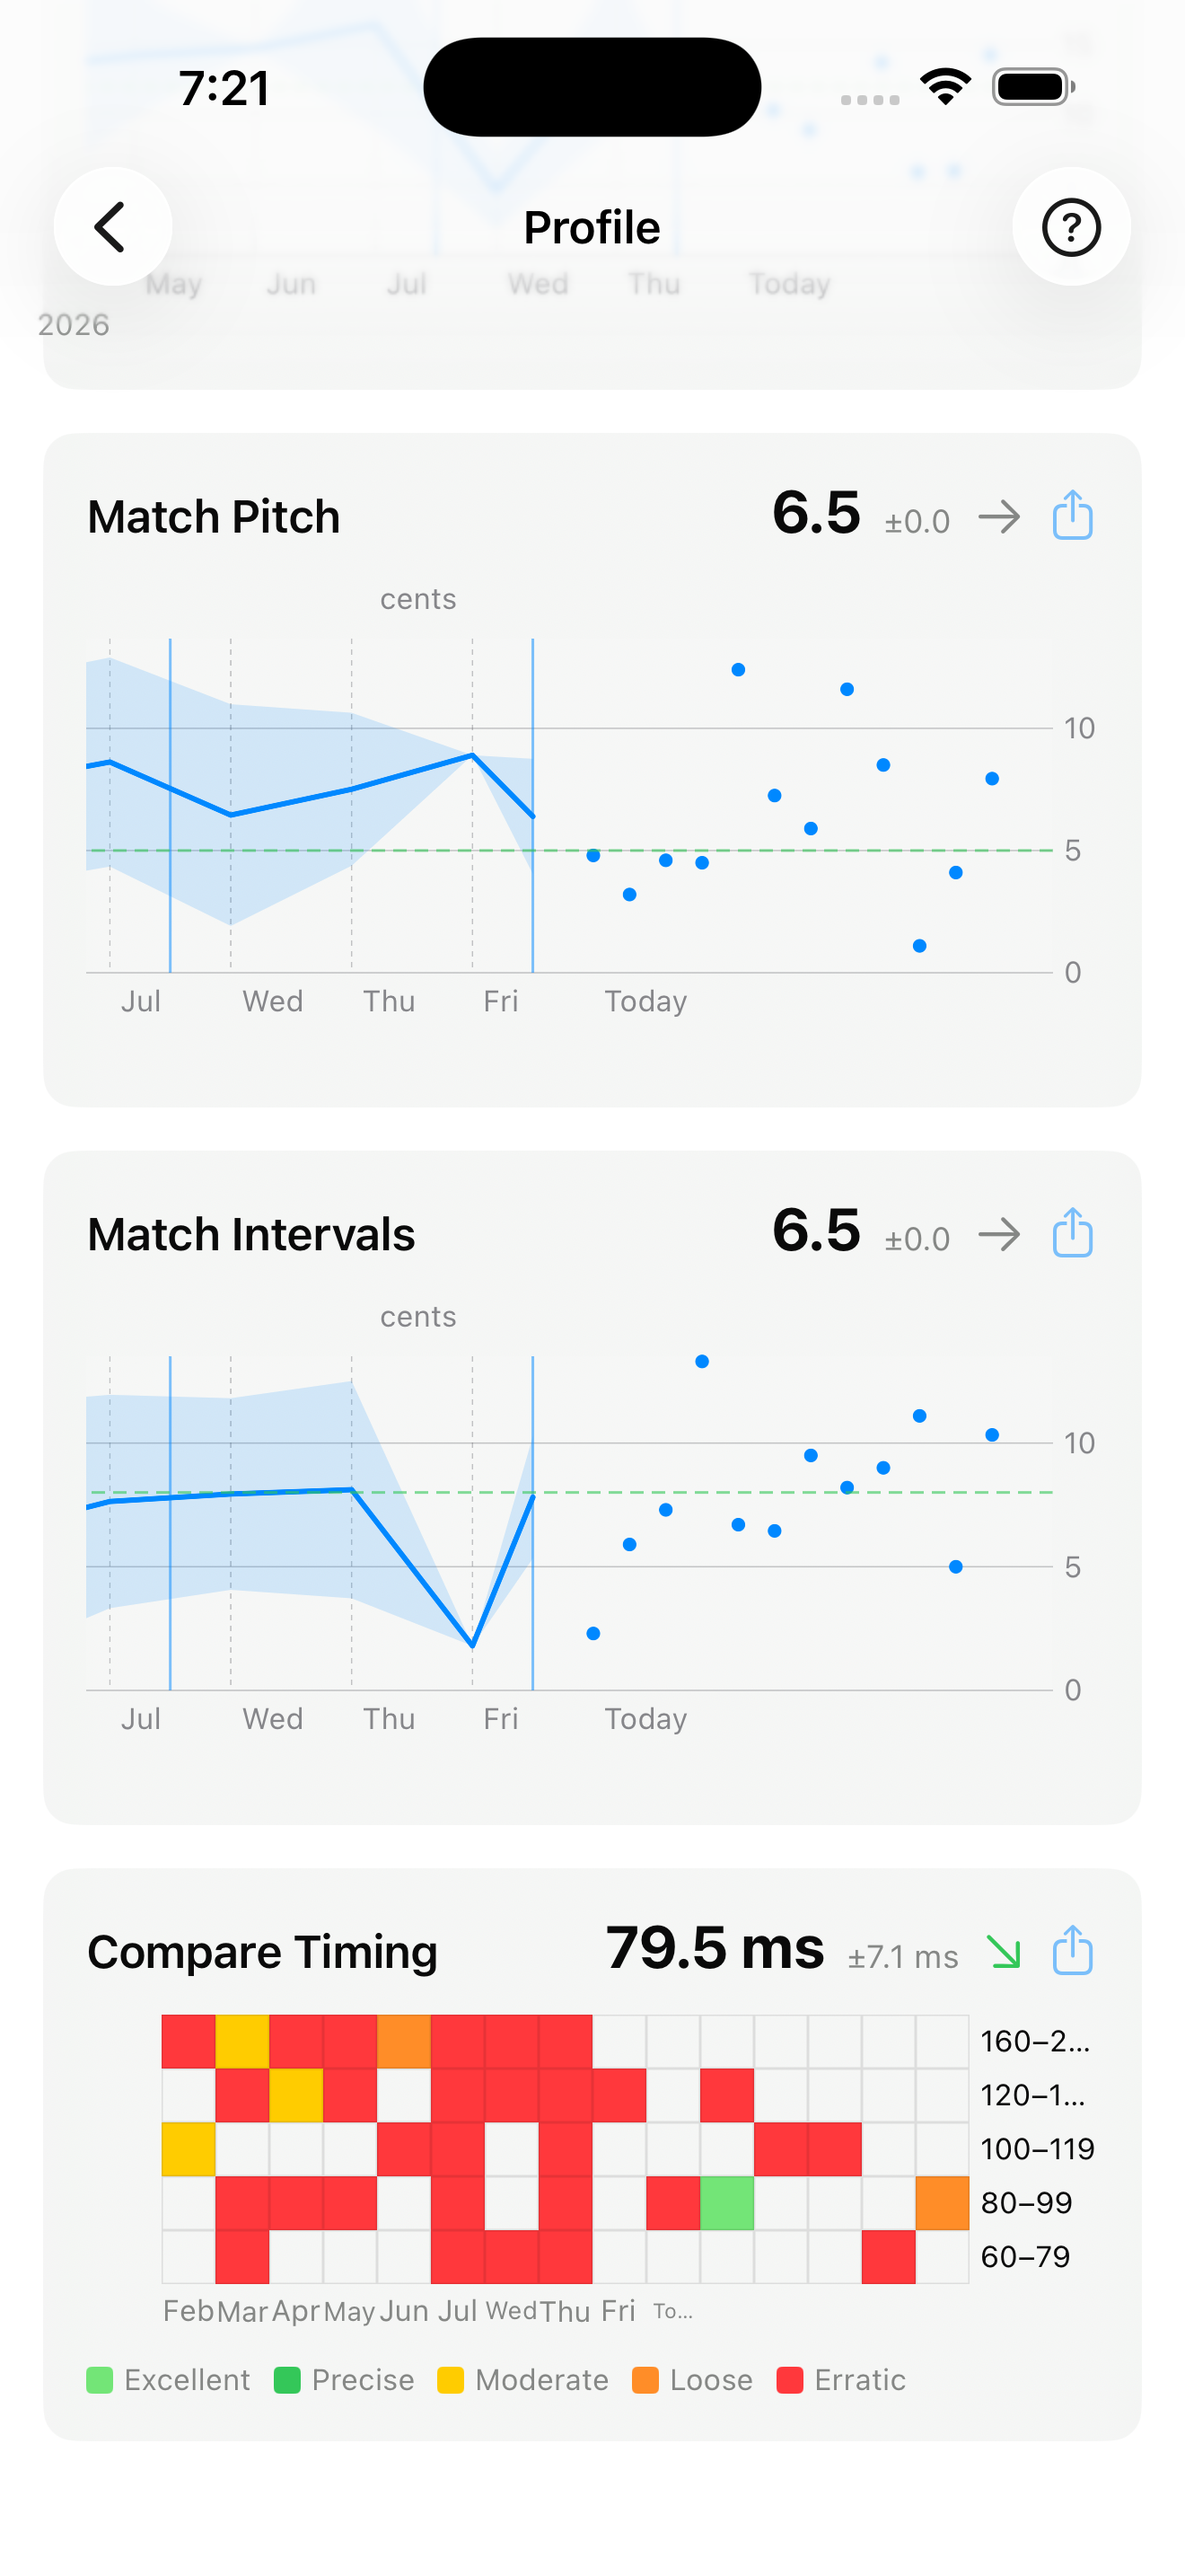
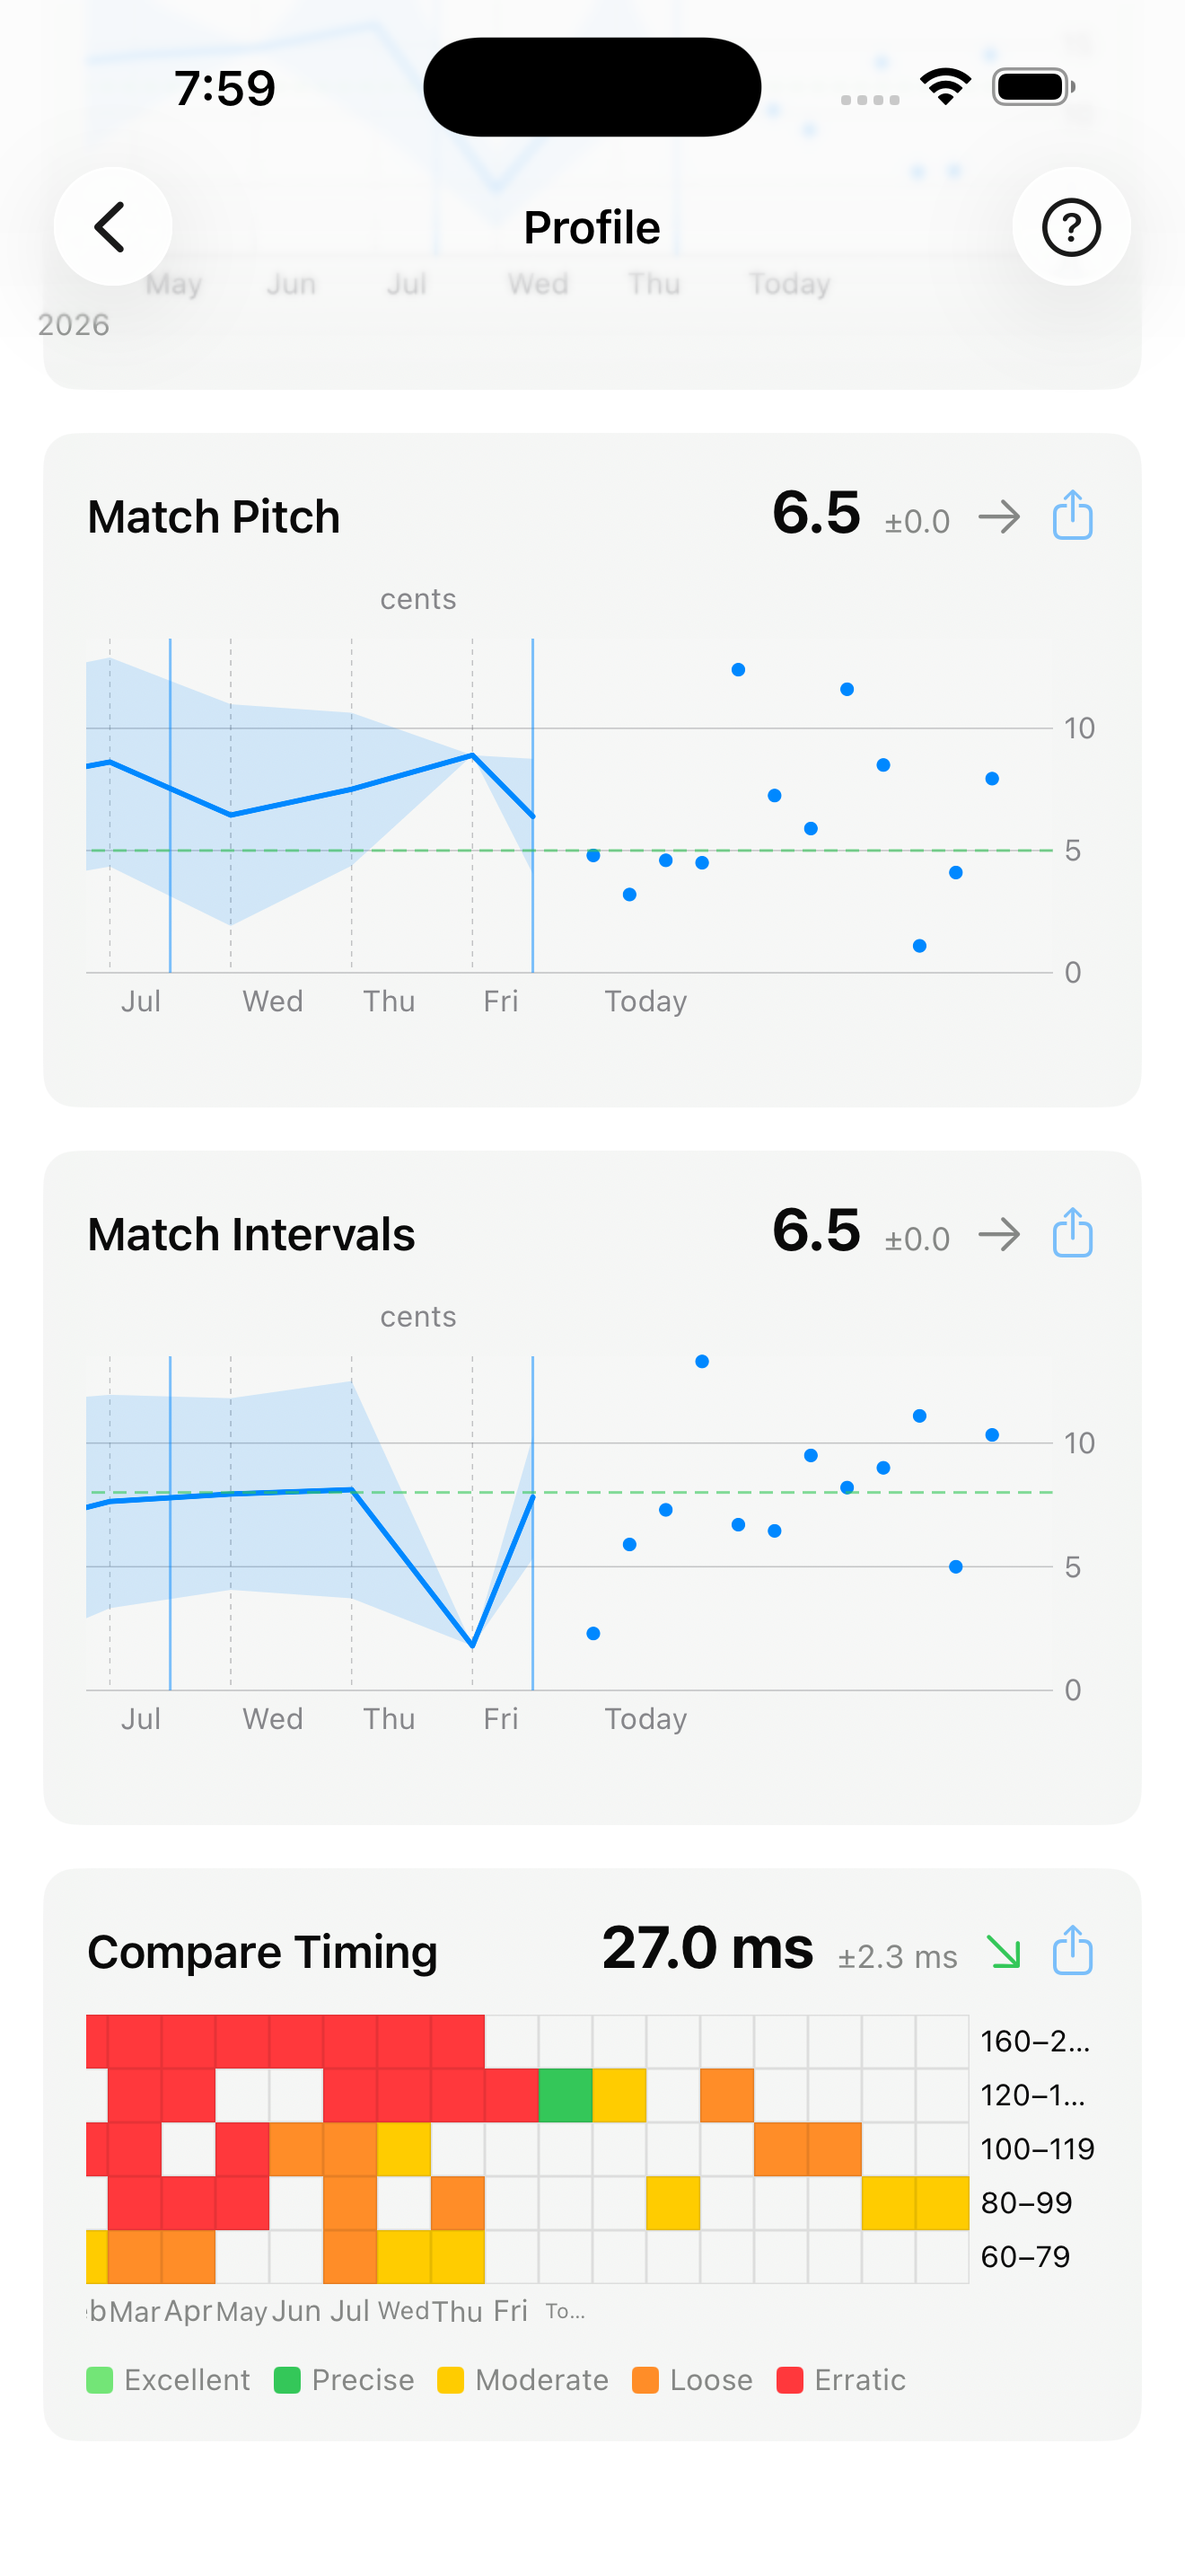
Re-capture profile and start screenshots with realistic Compare Timing seed data
The Compare Timing heatmap rendered almost entirely red ("Erratic") because
bin/generate-test-data.py draws offsetMs uniformly from 5-150 ms while
SpectrogramThresholds.default tops out around 55 ms for `loose`. Nearly every
cell fell past the last band -- data no real user could produce, in the
screenshot that introduces this release's headline discipline.

Reshaped the seeded records in place rather than editing the shared generator:
the store's payload is plain JSON, so only offsetMs and isCorrect on
timingOffsetDetection rows were rewritten, leaving tempoBPM, timestamps and
both pitch disciplines alone. Magnitudes now fall from ~48 ms (oldest) to
~16 ms (newest), so the history reads as genuine improvement. Median 29.6 ms,
114 of 127 records inside the loose band or better.

01-start-screen re-captured on both devices as well, since the Compare Timing
card's headline moved from 79.5 ms to 27.0 ms.

Also corrects a claim in the story record: the tempo-range label truncation
(`160-2...`) happens on iPad too, not only iPhone. The earlier note was read
off a snapshot_ui text node, which reports the underlying string rather than
what is drawn; the captured PNG disproves it. Still undispositioned.

Changed region(s): [[0.0621, 0.7448, 0.8386, 0.8999], [0.1553, 0.031, 0.2485, 0.0621]]

diff --git a/docs/implementation-artifacts/83-3-submit-next-app-store-cut.md b/docs/implementation-artifacts/83-3-submit-next-app-store-cut.md
@@ -307,7 +307,11 @@ AC 3 satisfied on both devices: the start screen shows five disciplines under Pi
 
 **A shell trap worth recording:** `cp` is aliased to `cp -i`, so the first store copy silently did nothing — it consumed EOF as "no" and still exited 0. This is the same failure mode as the aliased `rm -i` that made story 83.1 record a deletion that never happened. Use `/bin/cp -f` / `command cp` for scripted copies.
 
-**Open, not yet dispositioned:** (a) the seeded Compare Timing heatmap renders almost entirely red ("Erratic") because `bin/generate-test-data.py` draws random offsets — honest, but it depicts the user as consistently poor in a shipping App Store asset; fixable by regenerating the seed with tighter offsets and re-capturing `07` on both devices, which is seed-data work inside Task 5's remit rather than a code change. (b) On iPhone only, two tempo-range labels truncate to `160–2…` / `120–1…` in that same card; iPad renders them in full, so it is a width-constrained layout issue. New finding, no catalog entry, not caused by this story.
+**Seed-data quality fixed (Michael's decision).** The Compare Timing heatmap first rendered almost entirely red ("Erratic") because `bin/generate-test-data.py` draws `offsetMs` uniformly from 5–150 ms, while `SpectrogramThresholds.default` tops out at ~55 ms for `loose` — so nearly every cell fell past the last band. That is data no real user could produce, and it depicted the user as consistently poor in the screenshot that introduces the release's headline discipline.
+
+Rather than edit the shared generator (a committed tool, and out of this story's remit), the seeded records were reshaped in place. The store's `ZPAYLOADDATA` is plain JSON (`{"isCorrect":true,"offsetMs":-117.1,"tempoBPM":198}`), so a scratchpad script rewrote **only** `offsetMs` and `isCorrect` on `timingOffsetDetection` rows, leaving `tempoBPM`, timestamps, and both pitch disciplines untouched. Magnitudes are drawn lognormally around a centre falling from ~48 ms (oldest) to ~16 ms (newest) so the history reads as genuine improvement, with `isCorrect` following a sigmoid on magnitude because a larger displacement is easier to detect. Seeded (`random.seed(83)`), so it reproduces. Result: median 29.6 ms, 114 of 127 records inside the `loose` band or better, 13 beyond it — a heatmap that grades from red in the older months to orange/yellow/green in recent sessions, headline `27.0 ms ±2.3 ms` with an improving trend. `01-start-screen` was re-captured on both devices too, since the Compare Timing card's headline moved from `79.5 ms` to `27.0 ms`.
+
+**Open, not dispositioned — one new finding.** In the Compare Timing profile card the two widest tempo-range labels truncate to `160–2…` and `120–1…`. **This happens on iPad as well as iPhone**, so it is not merely a narrow-screen artifact. (An earlier note in this record claimed iPad rendered them in full; that was read off a `snapshot_ui` text node, which reports the underlying string rather than what is drawn, and the captured PNG disproves it.) The truncation is visible in `07-profile-screen` on both devices. No catalog entry exists and this story did not cause it, so it needs a disposition — fix, or `PF-###`.
 
 ### File List
 
